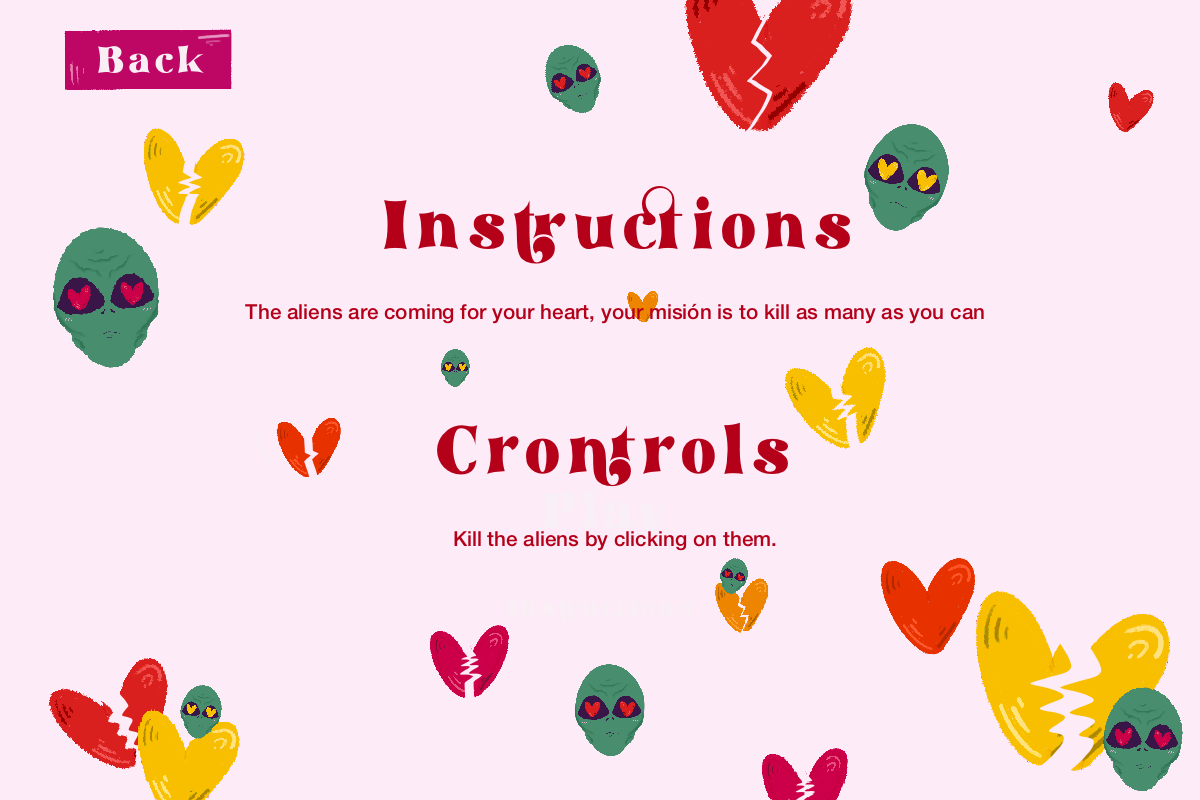
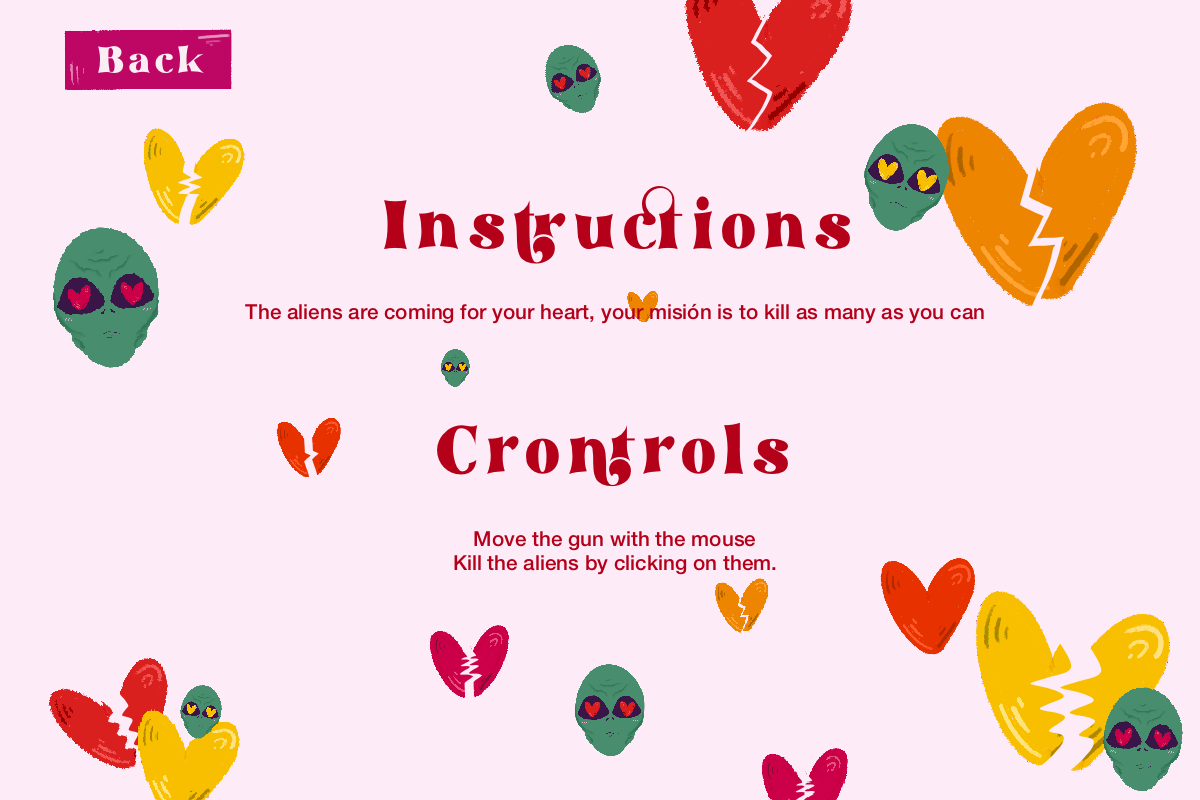
cambio pantallas y boton close

Changed region(s): [[0.7708, 0.0938, 0.9558, 0.375], [0.37, 0.6562, 0.6475, 0.75], [0.6475, 0.4375, 0.74, 0.5625]]

diff --git a/src/Principal.java b/src/Principal.java
@@ -41,8 +41,8 @@ public class Principal extends PApplet{
 		
 	//fondos generales
 	inicio = loadImage ("data/Pinicio.PNG");
-	instruccion = loadImage ("data/Prules.png");
-	lost = loadImage ("data/lost.PNG");
+	instruccion = loadImage ("data/Prules.PNG");
+	lost = loadImage ("data/Lost.PNG");
 	
 	//arma
 	arma = new Arma (this, 600, 725);
@@ -281,8 +281,7 @@ public class Principal extends PApplet{
 		break;
 		
 		case 2:
-			
-			//shootAlien ();
+		
 			clickAlien ();
 				
 		break;
@@ -292,6 +291,9 @@ public class Principal extends PApplet{
 			if (dist(mouseX, mouseY, 629, 564) < 30) {
 				
 				screen = 0;
+				
+				exit();
+				
 			}
 			
 		break;
@@ -322,52 +324,11 @@ public class Principal extends PApplet{
 			score+=20;
 			
 			}
+			
 		}
-		
 		
 	}
 	
-	/*private void shootAlien () {
-	
-		for (int i = 0; i < alien.size(); i++) {
-			
-			if (dist(mouseX, mouseY, alien.get(i).getX() + 70, alien.get(i).getY() + 95) < 40) {
-				
-				stroke(77, 133, 69);
-				strokeWeight(10);
-				line(arma.getX() + 65, arma.getY() + 93, alien.get(i).getX() + 65, alien.get(i).getY() + 93);
-
-				System.out.println("hello");
-				
-				alien.remove(i);
-				
-				score += 10;
-			}
-				
-			}
-
-			
-			for (int i = 0; i < alien1.size(); i++) {
-				
-				if (dist(mouseX, mouseY, alien1.get(i).getX() + 70, alien1.get(i).getY() + 95) < 40) {
-					
-					stroke(77, 133, 69);
-					strokeWeight(10);
-					line(arma.getX() + 65, arma.getY() + 93, alien1.get(i).getX() + 65, alien1.get(i).getY() + 93);
-
-					System.out.println("hello");
-					
-					alien1.remove(i);
-					
-					score += 20;
-				}
-					
-				}
-
-
-		
-	}*/
-	
-	}		
+}
 
 
